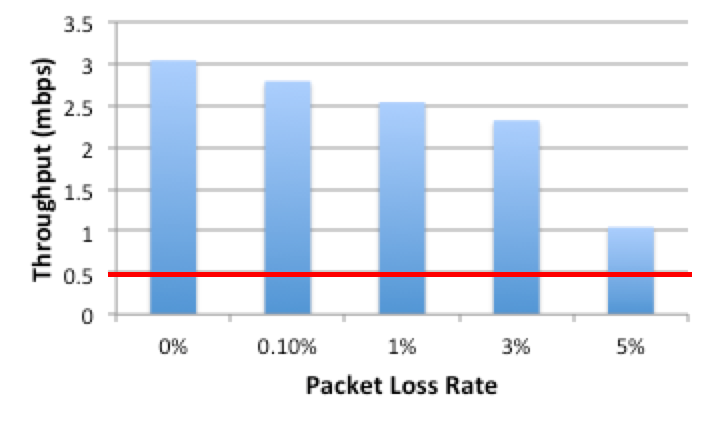
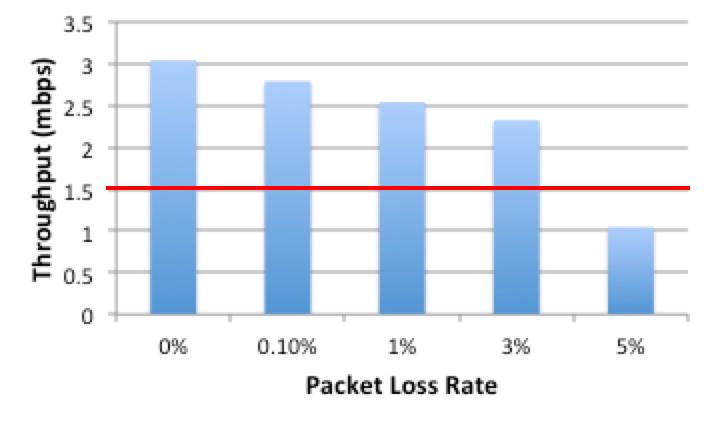
Kubi comments addressed

Changed region(s): [[0.1549, 0.6439, 0.9915, 0.6745], [0.1549, 0.4292, 0.9915, 0.4599]]

diff --git a/chap3.tex b/chap3.tex
@@ -79,6 +79,8 @@ to the nearby traffic light which requires current data; meanwhile, devices
 further away with looser latency constraints will accrue greater bandwidth
 advantages. 
 
+We argue that the optimal metric for ensuring the above properties is \textit{stretch}, introduced in~\autoref{motivation}. 
+
 Rather than considering the Internet as a more or less randomly
 distributed graph of nodes, SCDTs consider the network as a series of
 interconnected, hierarchical domains of ownership.  Domains are analogous to
@@ -189,8 +191,21 @@ In our previous case, the company could restrict data flow based on their needs 
 
 \section{Evaluation}
 \label{scdt-eval}
+SCDTs primary differentiator from existing multicast schemes is the application of the stretch metric as the primary component for tree building. Trees are built by new nodes contacting the root, and then moving down the tree to the child that has the best stretch; the process continues until the joining node cannot move further down the tree without exceeding \texttt{MAX\_STRETCH}. An example of a generated overlay topology is shown in~\autoref{fig:topology}. More details can be found in~\autoref{sim-scdt}.
 
-We simulated the impact of using SCDTs to distribute data. Our tests were constructed by generating a BRITE \cite{brite} topology consisting of two connected autonomous systems, and attaching SCDT nodes at the leaves of these ASes.  See~\autoref{simulations} for more details. Link speeds are randomized to between 1 and 10 Mbps, and delays are randomized to between 1 and 50 ms.
+The goal of this metric is construct a tree that balances the need to fan out further down the tree for improve scalability with the real-time or near-real-time requirements of nearby IoT devices. Existing solutions do not take these real-time requirements into account. This solution is also more fault tolerant: partitions in the network, including losing connection to the broader Internet, will not prevent nodes on the same side of the partition as the publisher from continuing to receive content. Existing pub/sub architectures like RabbitMQ and Kafka are focused on the datacenter, and are not designed to account for device locality.
+
+\begin{figure}[h]
+	\begin{center}
+		\includegraphics[scale=0.6]{topology.png}
+	\end{center}
+	\vspace{-1.3em}
+	\caption{\small \itshape The overlay multicast tree constructed out of 25 subscriber nodes and 1 publisher connected to a BRITE topology. Topologies vary from run to run due to the randomization of the BRITE topology and the link qualities.}
+	\vspace{-1em}
+	\label{fig:topology}
+\end{figure}
+
+We simulated the impact of using SCDTs to distribute data. Our tests were constructed by generating a BRITE \cite{brite} topology consisting of two connected autonomous systems, and attaching SCDT nodes at the leaves of these ASes.  BRITE topologies are regenerated for each run, helping to eliminate the effect of particular topologies skewing our results.  See~\autoref{simulations} for more details. Link speeds are randomized to between 1 and 10 Mbps, and delays are randomized to between 1 and 50 ms.
 
 \begin{figure}[h]
 	\begin{center}
@@ -216,7 +231,9 @@ We simulated the impact of using SCDTs to distribute data. Our tests were constr
 	\label{fig:stretch_nodes}
 \end{figure}
 
-We also tested the stretch metric which is at the core of our algorithm. Figure~\autoref{fig:stretch_nodes}, shows the results of these tests. Based on this data, we believe the sweet spot for \texttt{MAX\_STRETCH} tends to be around two. Lower values had a tendency to severely limit node movement in the tree, resulting in nodes near the top of the tree with a large number of direct children. Our results indicate that as \texttt{MAX\_STRETCH} is increased beyond 2, latency increases at an exponential rate. Examination of some of the constructed trees indicates an excessively high \texttt{MAX\_STRETCH} leads to long, snaking trees with limited branching.
+We also tested the stretch metric which is at the core of our algorithm. Figure~\autoref{fig:stretch_nodes}, shows the results of these tests. Based on this data, we believe the sweet spot for \texttt{MAX\_STRETCH} tends to be between 1.5 and 2. Lower values had a tendency to severely limit node movement in the tree, resulting in nodes near the top of the tree with a large number of direct children. Our results indicate that as \texttt{MAX\_STRETCH} is increased beyond 2, latency increases at an exponential rate. Examination of some of the constructed trees indicates an excessively high \texttt{MAX\_STRETCH} leads to long, snaking trees with limited branching.
+
+~\autoref{fig:stretch_nodes} is also important for establishing the efficiency of SCDTs over other schemes.  The case where \texttt{MAX\_STRETCH} is set to one degenerates into a unicast relationship between the root and all children. This is obviously not a tenable situation as the trees continue to scale, but even at 100 nodes, SCDTs are about 30\% faster than the basic unicast case with \texttt{MAX\_STRETCH} is set to 1.5.
 
 \begin{figure}[h]
 	\begin{center}
@@ -249,5 +266,7 @@ It may also be important to tune this parameter based on where nodes (or cluster
 \end{figure}
 
 Finally, we examine how SCDTs perform in terms of throughput. ~\autoref{fig:through_nodes} shows that average throughput decreases approximately linearly as the number of nodes increases. Note that these values should not be compared to the values in~\autoref{cnr-eval} directly since each test was conducted under different parameters and configurations.  
+
+We also compared SCDTs throughput performance to the naive tree building method used for evaluation in~\autoref{cnr-eval} and described in~\autoref{sim-cnr}. Due to limitations in our simulations, we did not compare these at scale. However, we did compare the naive tree building method, in which each node has a fixed fanout and chooses its children based on latency, on a simulation containing 50 nodes. Throughput comparisons were found to be fairly comparable between the naive implementation at this size.  Latency comparisons were also similar.  While further scaling of these simulations is necessary to prove the effectiveness of SCDTs, we believe these results show that the concept has great promise.
 
 Overall, SCDTs performed well in our tests. Both latency and throughput appear to scale well in our examinations. The most significant challenge is properly tuning the \texttt{MAX\_STRETCH} parameter. However, we have many improvements in mind for SCDTs, which we discuss in~\autoref{future}, which we believe will further improve SCDTs. 

diff --git a/chap1.tex b/chap1.tex
@@ -6,7 +6,7 @@
 
 The Internet of Things is a computing macrotrend poised to change the way we interact with computing environments and reshape the Internet. While the push toward cloud computing has lead to increasing centralization of the Internet into a handful of data centers, the proliferation of IoT devices is pushing computation and data flows back toward the network edge.
 
-IoT applications may be worth up to \$11 trillion by 2025. However, 40\% of this value relies on coordination between IoT systems \cite{McKinsey}. Developers face any a number of challenges in capturing this value. An effective IoT deployment cannot simply be a direct connection between every individual IoT device and a cloud data center \cite{kubi}. Round trips to the cloud are inefficient in  latency, bandwidth, and network stress, limiting scalability and imposing deployment constraints. IoT devices are often embedded, low-power devices with low duty-cycles, making ensuring reliability and durability of data at best an unnecessary energy drain and at worst a debilitating constraint. Furthermore, routing to and utilizing the cloud comes with a number of privacy and security risks.
+IoT applications may be worth up to \$11 trillion by 2025. However, 40\% of this value relies on coordination between IoT systems \cite{McKinsey}. Developers face any a number of challenges in capturing this value. An effective IoT deployment cannot simply be a direct connection between every individual IoT device and a cloud data center \cite{kubi}. Round trips to the cloud are inefficient in  latency, bandwidth, and network , limiting scalability and imposing deployment constraints. IoT devices are often embedded, low-power devices with low duty-cycles, making ensuring reliability and durability of data at best an unnecessary energy drain and at worst a debilitating constraint. Furthermore, routing to and utilizing the cloud comes with a number of privacy and security risks.
 
 \subsection{Latency, Bandwidth, and Scalability}
 In many cases, IoT devices can only realize their potential when they are able to distribute their data to thousands or millions of subscribers efficiently. For example, a temperature sensor might need to publish current temperature readings to every HVAC system in a neighborhood, or an air quality sensor might need to send pollution warnings to citizens in a wide area. 
@@ -112,13 +112,17 @@ Further, existing overlay multicast mechanisms are targeted at a non-mobile publ
 
 Devices further away are less likely to have real-time dependency on the data. This leads us to propose a shift: that an IoT multicast scheme should prioritize delivering data to local subscribers over subscribers further away. We further argue that, given the relatively small or infrequent messages published by many IoT devices (e.g. a temperature sensor publishing readings once per minute), an IoT multicast should prioritize latency over bandwidth. Of course, latency is determined not just by the route packets take but also by the stress on the network, the fanout at any individual node, and the quality of links (if the scheme is reliable, lossy links will require more retries). We argue that the metric to optimize is \textit{stretch}. Stretch is defined as:
 
-\[\frac{Optimal\: Route\: Latency}{Actual\: Route\: Latency}\]
+\[\frac{Actual\: Route\: Latency}{Optimal\: Route\: Latency}\]
 
 We measure stretch for a given node in practice using:
 
 \[\frac{(Node\: Latency\: to\: Parent) + (Parent\: Latency\: to\: Publisher)}{Node\: Latency\: to\: Publisher}\]
 
 By setting a worst case stretch value, a multicast scheme can force traffic to route through non-optimal routes in order to improve fanout and reduce stress, while simultaneously preventing long, snaking multicast trees that reduce latency.
+
+\textit{Stress} on a given link is defined as ``the number of identical copies of a packet carried by a physical link" \cite{narada}; \textit{average stress} is the average of stresses across all physical links in the network. This metric is already established in the literature as a relevant measure of the efficiency of application-level multicast.
+
+For the purpose of the remainder of this paper, we generally refer to the ``latency" of a given node as the one-way transmission time from the root of the multicast tree to the given node. One of the advantages of our simulation environment, described in~\autoref{simulations}, is that we do not have to perform clock synchronization or use round-trip times to determine latency. We are primarily interested in this particular latency because it represents the path data will generally take from the publisher to subscribers.
 
 Finally, existing multicast implementations have not paid sufficient attention to security concerns. Multicast schemes face some of the same security concerns as other applications, specifically ensuring confidentiality and authenticity of data transmitted over the network. However, the solutions that work in unicast do not apply directly to multicast. The publisher cannot negotiate a separate key for every subscriber in a system with any amount of scale.  Using a shared symmetric key for the group raises the question of how to distribute such a key to new subscribers and revoke access from other subscribers. 
 

diff --git a/chap4.tex b/chap4.tex
@@ -47,13 +47,13 @@ Preliminary simulation results for CNR are generated on a star topology with the
 		\includegraphics[scale=0.6]{cnr_scat.png}
 	\end{center}
 	\vspace{-1.3em}
-	\caption{\small \itshape Impact on throughput of packet loss rate using CNR. Sampled by sending 100KB to a tree containing 50 subscribers and a \texttt{MAX\_FANOUT} of 2. The red line represents the average throughput of TCP over several runs with no packet loss.  Left: The average throughput of CNR over multiple runs. Right: The average throughput of CNR plotting individual runs and an exponential trend line.}
+	\caption{\small \itshape Impact on throughput of packet loss rate using CNR. Sampled by sending 100KB to a tree containing 50 subscribers and a \texttt{MAX\_FANOUT} of 4. The red line represents the average throughput of TCP over several runs with no packet loss.  Left: The average throughput of CNR over multiple runs. Right: The average throughput of CNR plotting individual runs and an exponential trend line.}
 	\vspace{-1em}
 	\label{fig:cnr_through}
 \end{figure}
 
 Our results are summarized in~\autoref{fig:cnr_through}. We sent 100KB of data to all the subscribing nodes in our multicast tree, and measured the throughput. We then introduced packet drops into the network, and measured the throughput of CNR when packets were randomly dropped 0.1\%, 1\%, 3\%, and 5\% of the time. The data suggests that CNR performs well in the face of fairly substantial packet loss, with fairly minor performance degradation until packet losses grow above 3\%, after which performance reductions become more substantial. 
 
-What is particularly interesting, however, is how much better CNR performed compared to hop-to-hop TCP links, even with no packet loss. Our data shows CNR generating about double the throughput of hop-to-hop TCP even when CNR is experiencing 5\% packet loss and TCP is experiencing none. While this is admittedly hardly the use case TCP was designed for, we believe this demonstrates the superiority of our approach and of nacking in multicast applications in general. We attribute the poor performance of hop-to-hop TCP to the overhead imposed by the TCP protocol and the loss of end-to-end efficiency \cite{end-to-end-args} TCP generally relies on. As discussed in~\autoref{architecture}, however, using many end-to-end TCP connections simply does not scale with the number of subscribers we are considering.
+What is particularly interesting, however, is how much better CNR performed compared to hop-to-hop TCP links, even with no packet loss. Our data shows CNR generating substantially greater throughput than hop-to-hop TCP even when CNR is experiencing 3\% packet loss and TCP is experiencing none; the breakeven point is somewhere between 3\% and 5\% packet loss. While this is admittedly hardly the use case TCP was designed for, we believe this demonstrates the superiority of our approach and of nacking in multicast applications in general. We attribute the poor performance of hop-to-hop TCP to the overhead imposed by the TCP protocol and the loss of end-to-end efficiency \cite{end-to-end-args} TCP generally relies on. As discussed in~\autoref{architecture}, however, using many end-to-end TCP connections simply does not scale with the number of subscribers we are considering.
 
-We believe this result will only improve with increased scale. Our test described  in~\autoref{fig:cnr_through} consider only 50 nodes and a \texttt{MAX\_FANOUT} of 2, meaning that a packet would traverse at most 5 overlay hops to reach its destination. In a larger network (or, in some cases, in an SCDT), the number of hops would be greatly increased. In a system without caching, this would impose substantially greater round trip times. However, we did not test the effect of varying cache sizes and the impact of cache misses on CNR performance.
+We believe this result will only improve with increased scale. Our test described  in~\autoref{fig:cnr_through} considers only 50 nodes and a \texttt{MAX\_FANOUT} of 4, meaning that a packet would traverse at most 3 overlay hops to reach its destination. In a larger network (or, in some cases, in an SCDT), the number of hops would be greatly increased. In a system without caching, this would impose substantially greater round trip times. However, we did not test the effect of varying cache sizes and the impact of cache misses on CNR performance.

diff --git a/chap5.tex b/chap5.tex
@@ -8,7 +8,7 @@ For instance, in our simulated nacking scheme we always return data in fixed siz
 
 Our simulations of tree building do not allow nodes to join at intermediate points in the network, an optimization that will ultimately be critical for scalability. Instead, our simulated nodes always join at the root. In addition, we do not include the re-optimization step in our simulations, which would allow nodes to shift their position in the tree after joining.
 
-We do not measure network stress in our simulations. \textit{Stress} on a given link is defined as ``the number of identical copies of a packet carried by a physical link" \cite{narada}; \textit{average stress} is the average of stresses across all physical links in the network. This metric is already established in the literature as a relevant measure of the efficiency of application-level multicast. Measuring stress requires modifying the network stack on all simulated nodes to monitor network-level traffic to observe the movement of individual packets over every link. While it is fully possible to do this, we do not include it in our simulations at this time.
+We do not measure network stress in our simulations. Measuring stress requires modifying the network stack on all simulated nodes to monitor network-level traffic to observe the movement of individual packets over every link. While it is fully possible to do this, we do not include it in our simulations at this time.
 
 On the other hand, we have not simulated the impact of a mobile publisher. While the effect of an actively moving publisher will likely have a negative impact on the performance of the algorithm, we do not believe that this effect will be overly damaging. The performance impact of SCDT security mechanisms was also not evaluated in these simulations, though the algorithms and techniques we selected were specifically chosen for their applicability and low-overhead in applications comparable to SCDTs.
 

diff --git a/thesis.tex b/thesis.tex
@@ -68,9 +68,9 @@ Many people contributed to the completion of this thesis. I'd like to thank the 
 
 \include{chap1}
 \include{chap2}
+\include{sim}
 \include{chap3}
 \include{chap4}
-\include{sim}
 \include{chap5}
 
 % \appendix
